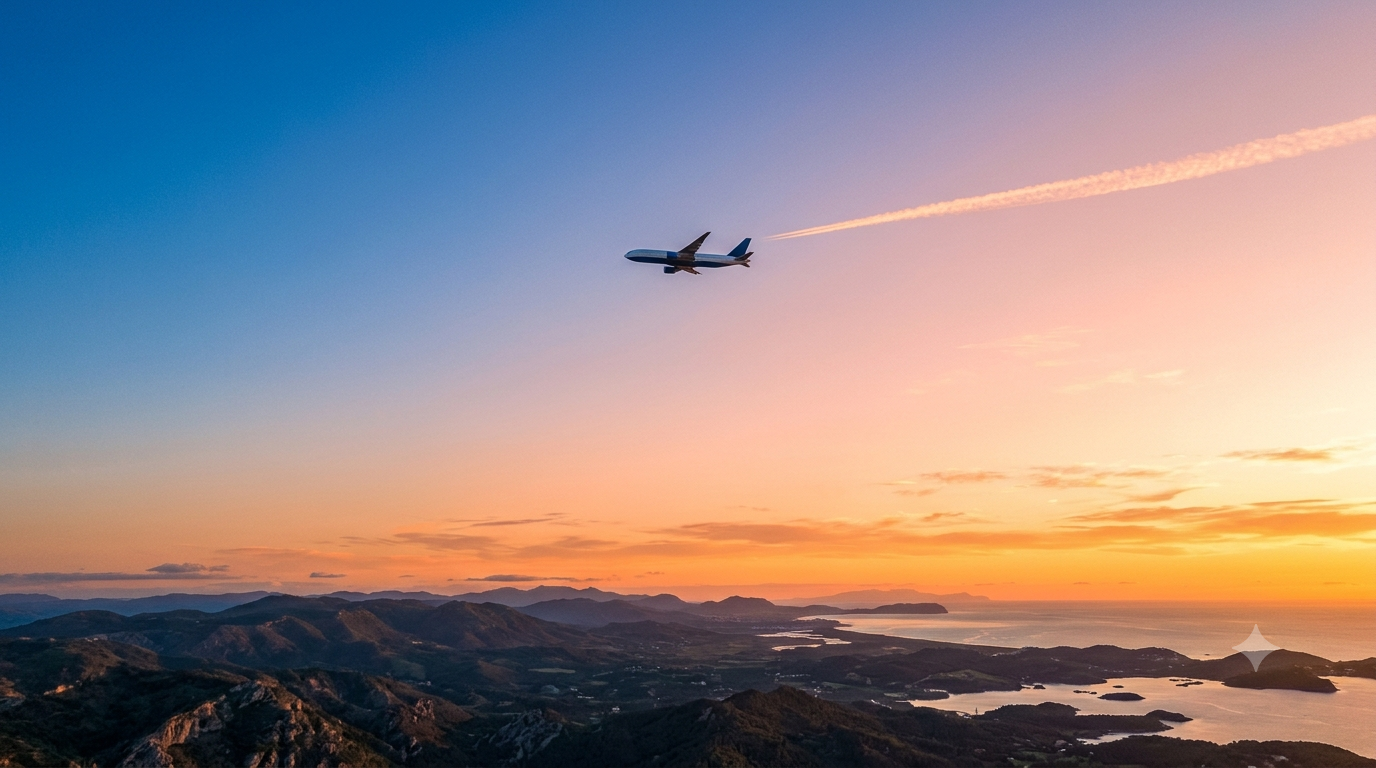
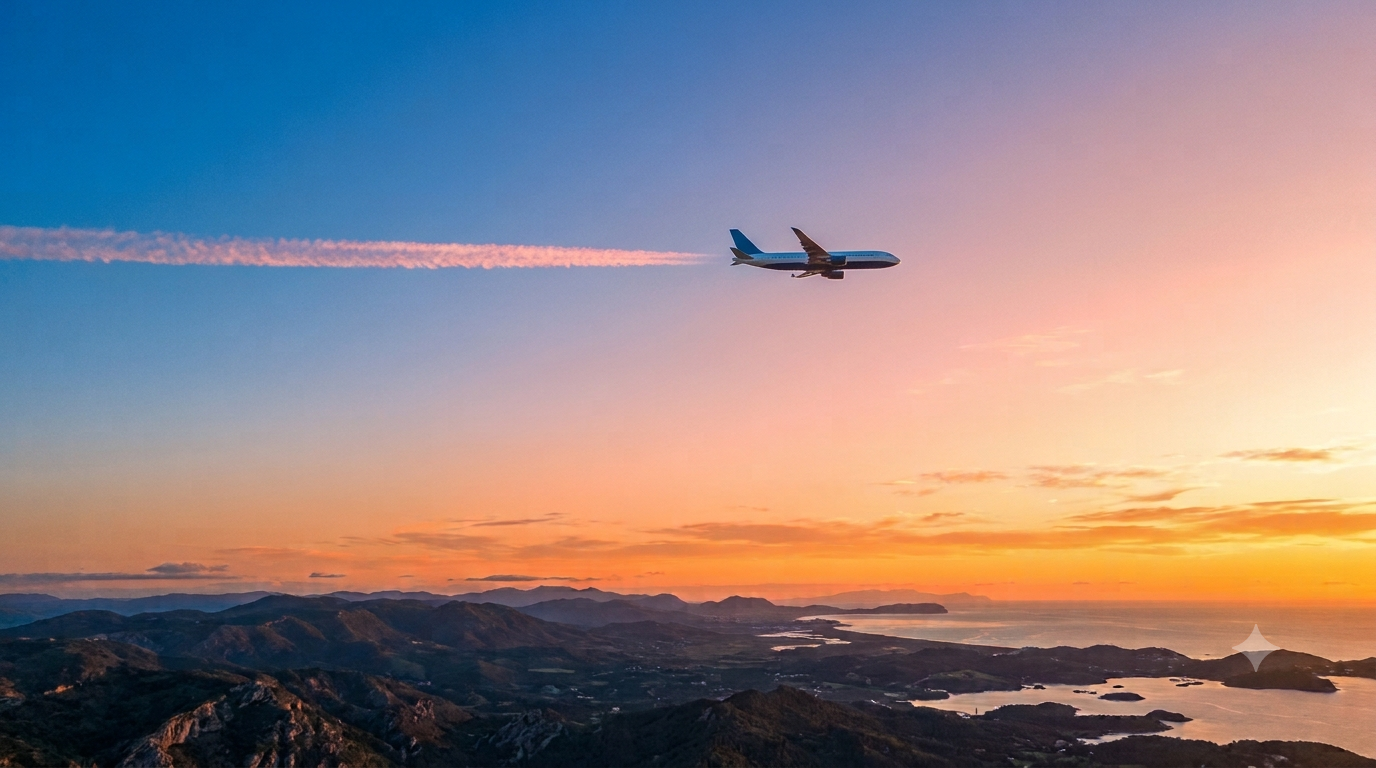
CNAGES

Changed region(s): [[0.0, 0.1562, 1.0, 0.375], [0.8438, 0.875, 0.875, 0.9062]]

diff --git a/src/components/layout/site-footer.tsx b/src/components/layout/site-footer.tsx
@@ -76,11 +76,8 @@ export function SiteFooter({
 
   return (
     <footer className="mt-auto bg-secondary text-text-on-dark">
-      {/* A thin coral-to-teal rule closes the page and marks where it ends. */}
-      <div aria-hidden="true" className="h-1 bg-gradient-to-r from-accent via-primary to-secondary" />
-
-      <div className="border-b border-white/10">
-        <div className="mx-auto flex max-w-page flex-col gap-6 px-gutter py-12 md:flex-row md:items-center md:justify-between">
+      <div className="mx-auto max-w-page px-gutter pt-20 md:pt-24">
+        <div className="flex flex-col gap-6 rounded-2xl bg-white/8 p-8 ring-1 ring-inset ring-white/12 md:flex-row md:items-center md:justify-between md:p-10">
           <div className="max-w-xl">
             <h2 className="text-h2 text-text-inverse">
               {es ? t.ctaTitle : "Ready to plan your trip?"}
@@ -108,7 +105,7 @@ export function SiteFooter({
           </div>
         </div>
       </div>
-      <div className="mx-auto max-w-page px-gutter py-16 md:py-20">
+      <div className="mx-auto max-w-page px-gutter pb-16 pt-14 md:pb-20">
         <div className="grid gap-12 lg:grid-cols-[minmax(0,20rem)_minmax(0,1fr)] lg:gap-20">
           <div>
             <Logo tone="inverse" />

diff --git a/src/app/page.tsx b/src/app/page.tsx
@@ -318,16 +318,14 @@ export default async function HomePage() {
         name="home-faq"
       />
 
-      <Section tone="brand" size="sm">
-        <div className="flex flex-col gap-10 lg:flex-row lg:items-center lg:justify-between">
+      <Section size="sm" containerClassName="pb-0 md:pb-0">
+        <div className="relative -mb-16 flex flex-col gap-8 rounded-2xl bg-primary-soft p-8 shadow-md md:p-10 lg:flex-row lg:items-center lg:justify-between lg:gap-12">
           <div className="measure-tight">
-            <h2 className="text-h2 text-text-inverse">Travel news, occasionally</h2>
-            <p className="mt-3 text-body-lg text-text-on-dark">
-              New routes and sailings, seasonal changes in the places we cover, and offers when
-              they are genuinely worth your attention.
-            </p>
+            <h2 className="text-h2 text-text">Travel news, occasionally</h2>
+            <p className="mt-3 text-body-lg text-text-secondary">New routes and sailings, seasonal changes in the places we cover, and offers when
+              they are genuinely worth your attention.</p>
           </div>
-          <NewsletterSignup tone="inverse" />
+          <NewsletterSignup />
         </div>
       </Section>
     </>

diff --git a/src/features/spanish-home/components/spanish-home-page.tsx b/src/features/spanish-home/components/spanish-home-page.tsx
@@ -277,13 +277,13 @@ export async function SpanishHomePage() {
         name="home-faq-es"
       />
 
-      <Section tone="brand" size="sm">
-        <div className="flex flex-col gap-10 lg:flex-row lg:items-center lg:justify-between">
+      <Section size="sm" containerClassName="pb-0 md:pb-0">
+        <div className="relative -mb-16 flex flex-col gap-8 rounded-2xl bg-primary-soft p-8 shadow-md md:p-10 lg:flex-row lg:items-center lg:justify-between lg:gap-12">
           <div className="measure-tight">
-            <h2 className="text-h2 text-text-inverse">{esNewsletter.title}</h2>
-            <p className="mt-3 text-body-lg text-text-on-dark">{esNewsletter.body}</p>
+            <h2 className="text-h2 text-text">{esNewsletter.title}</h2>
+            <p className="mt-3 text-body-lg text-text-secondary">{esNewsletter.body}</p>
           </div>
-          <NewsletterSignup tone="inverse" locale="es" />
+          <NewsletterSignup locale="es" />
         </div>
       </Section>
     </>
